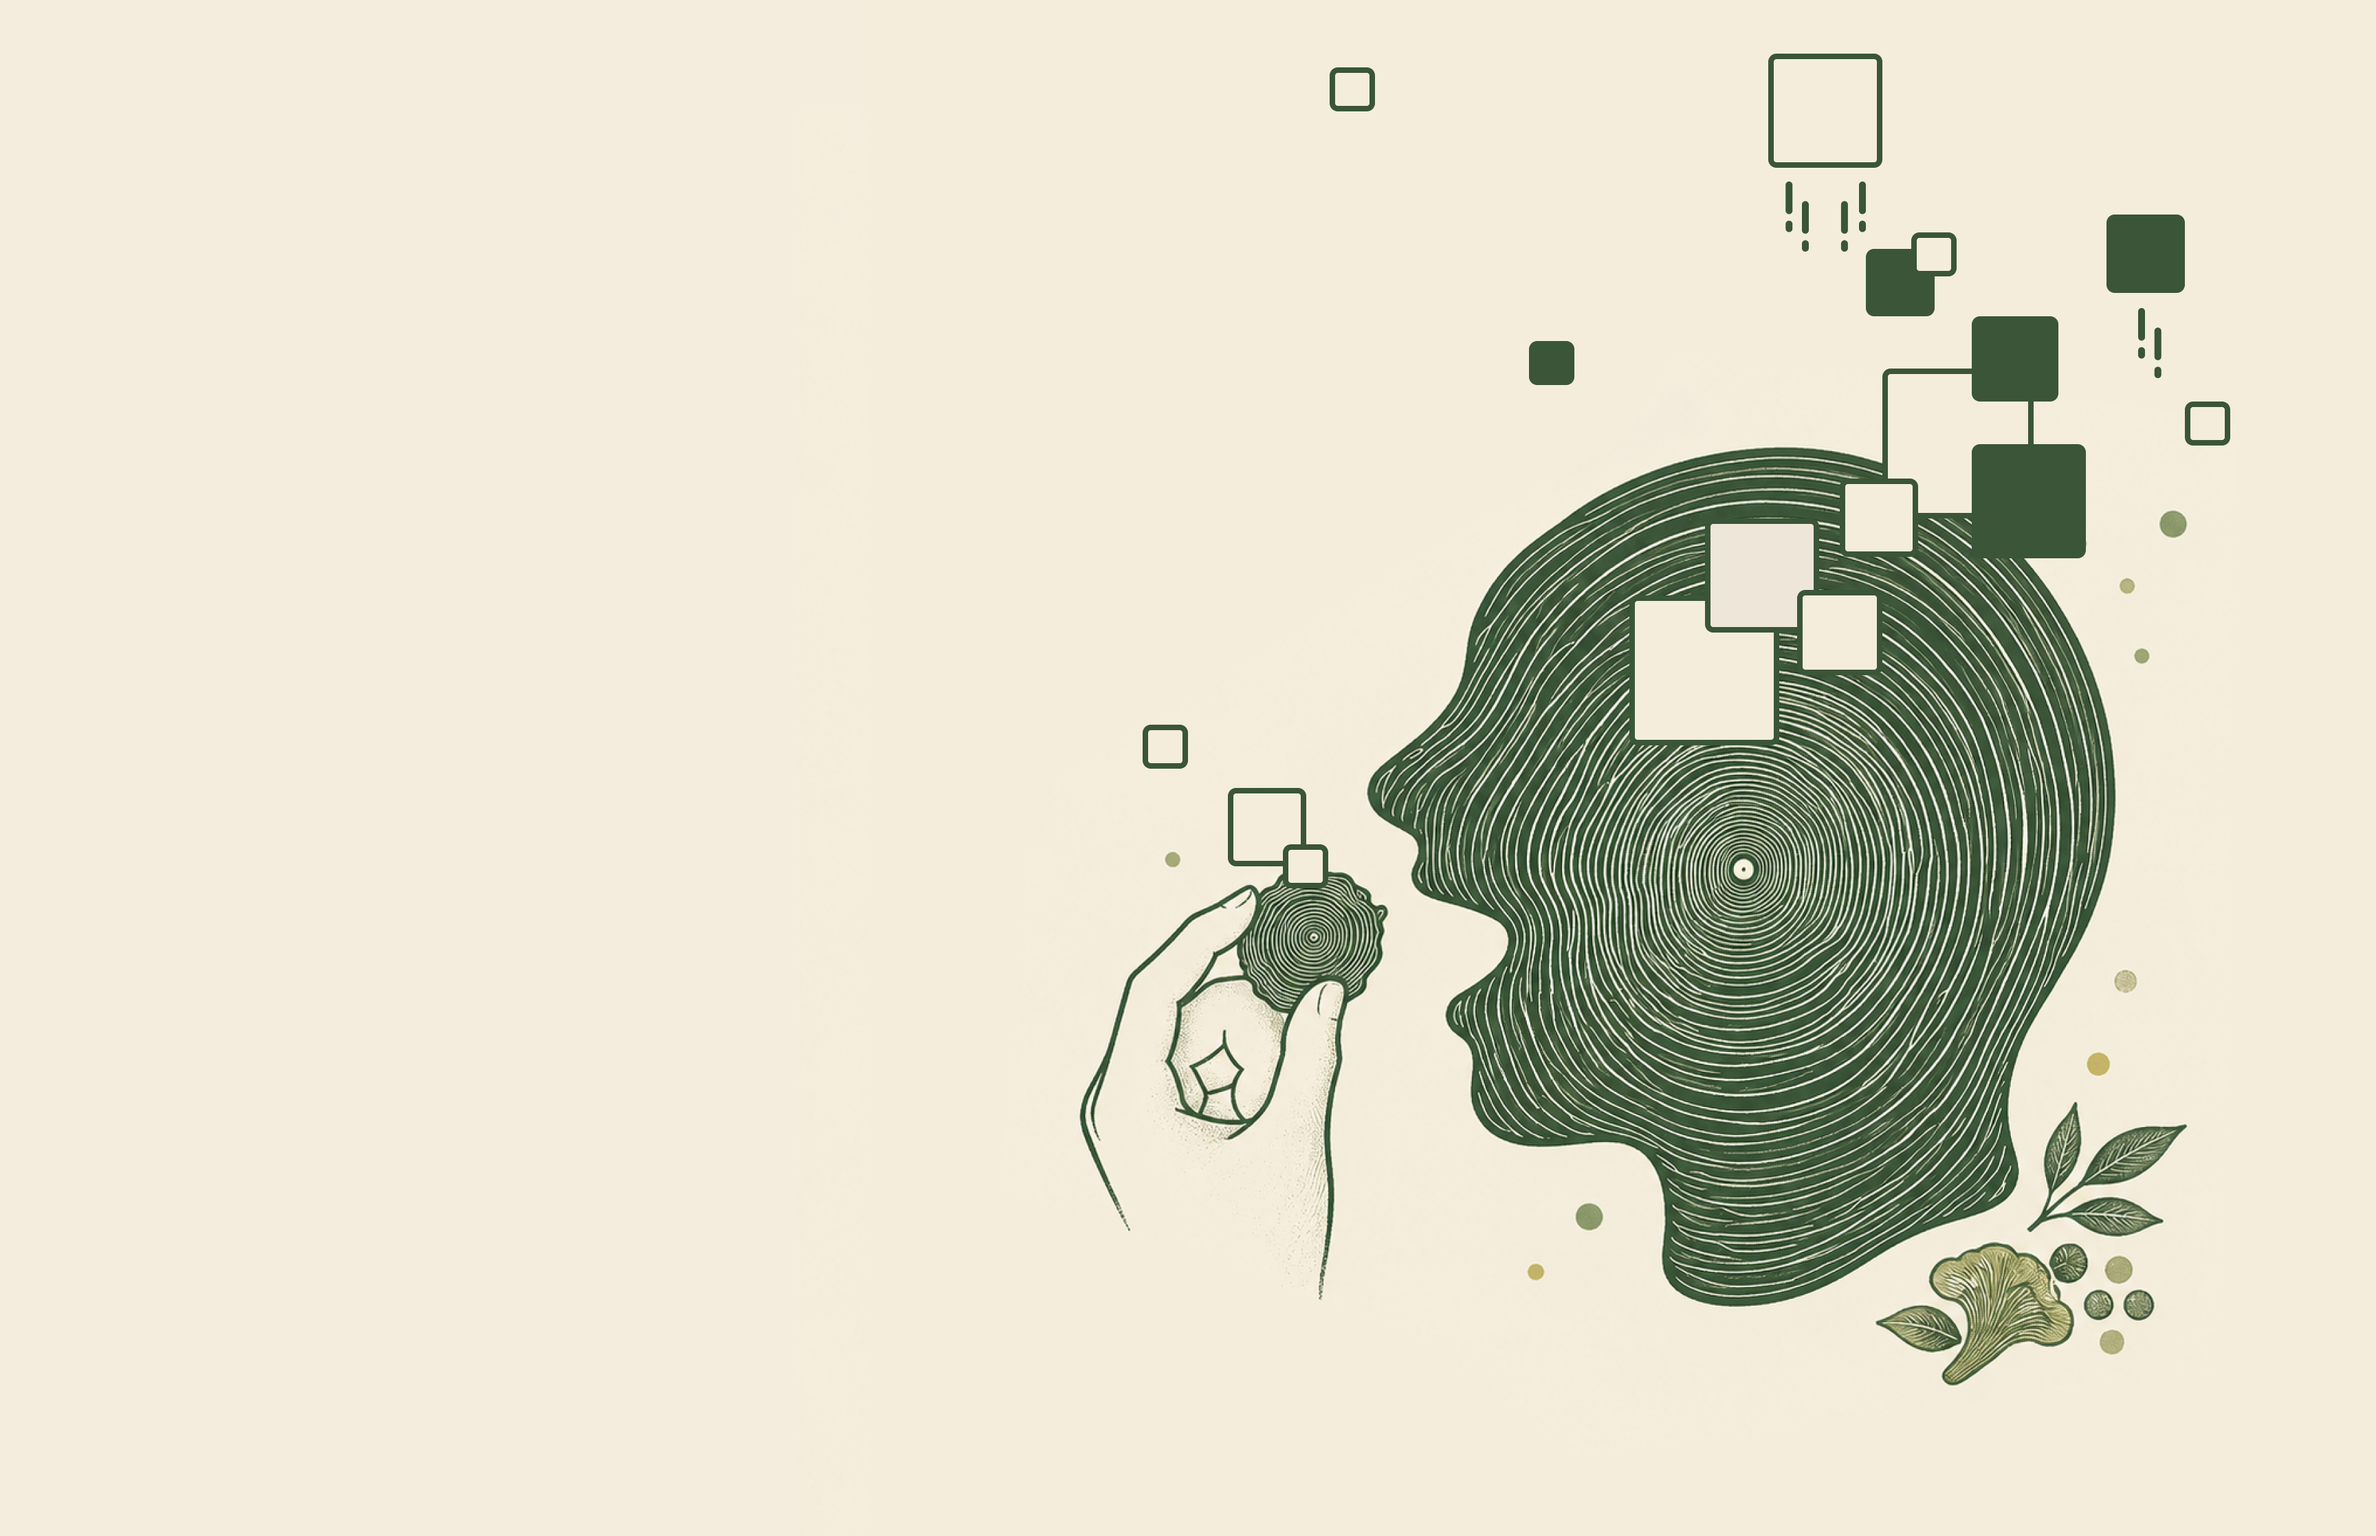
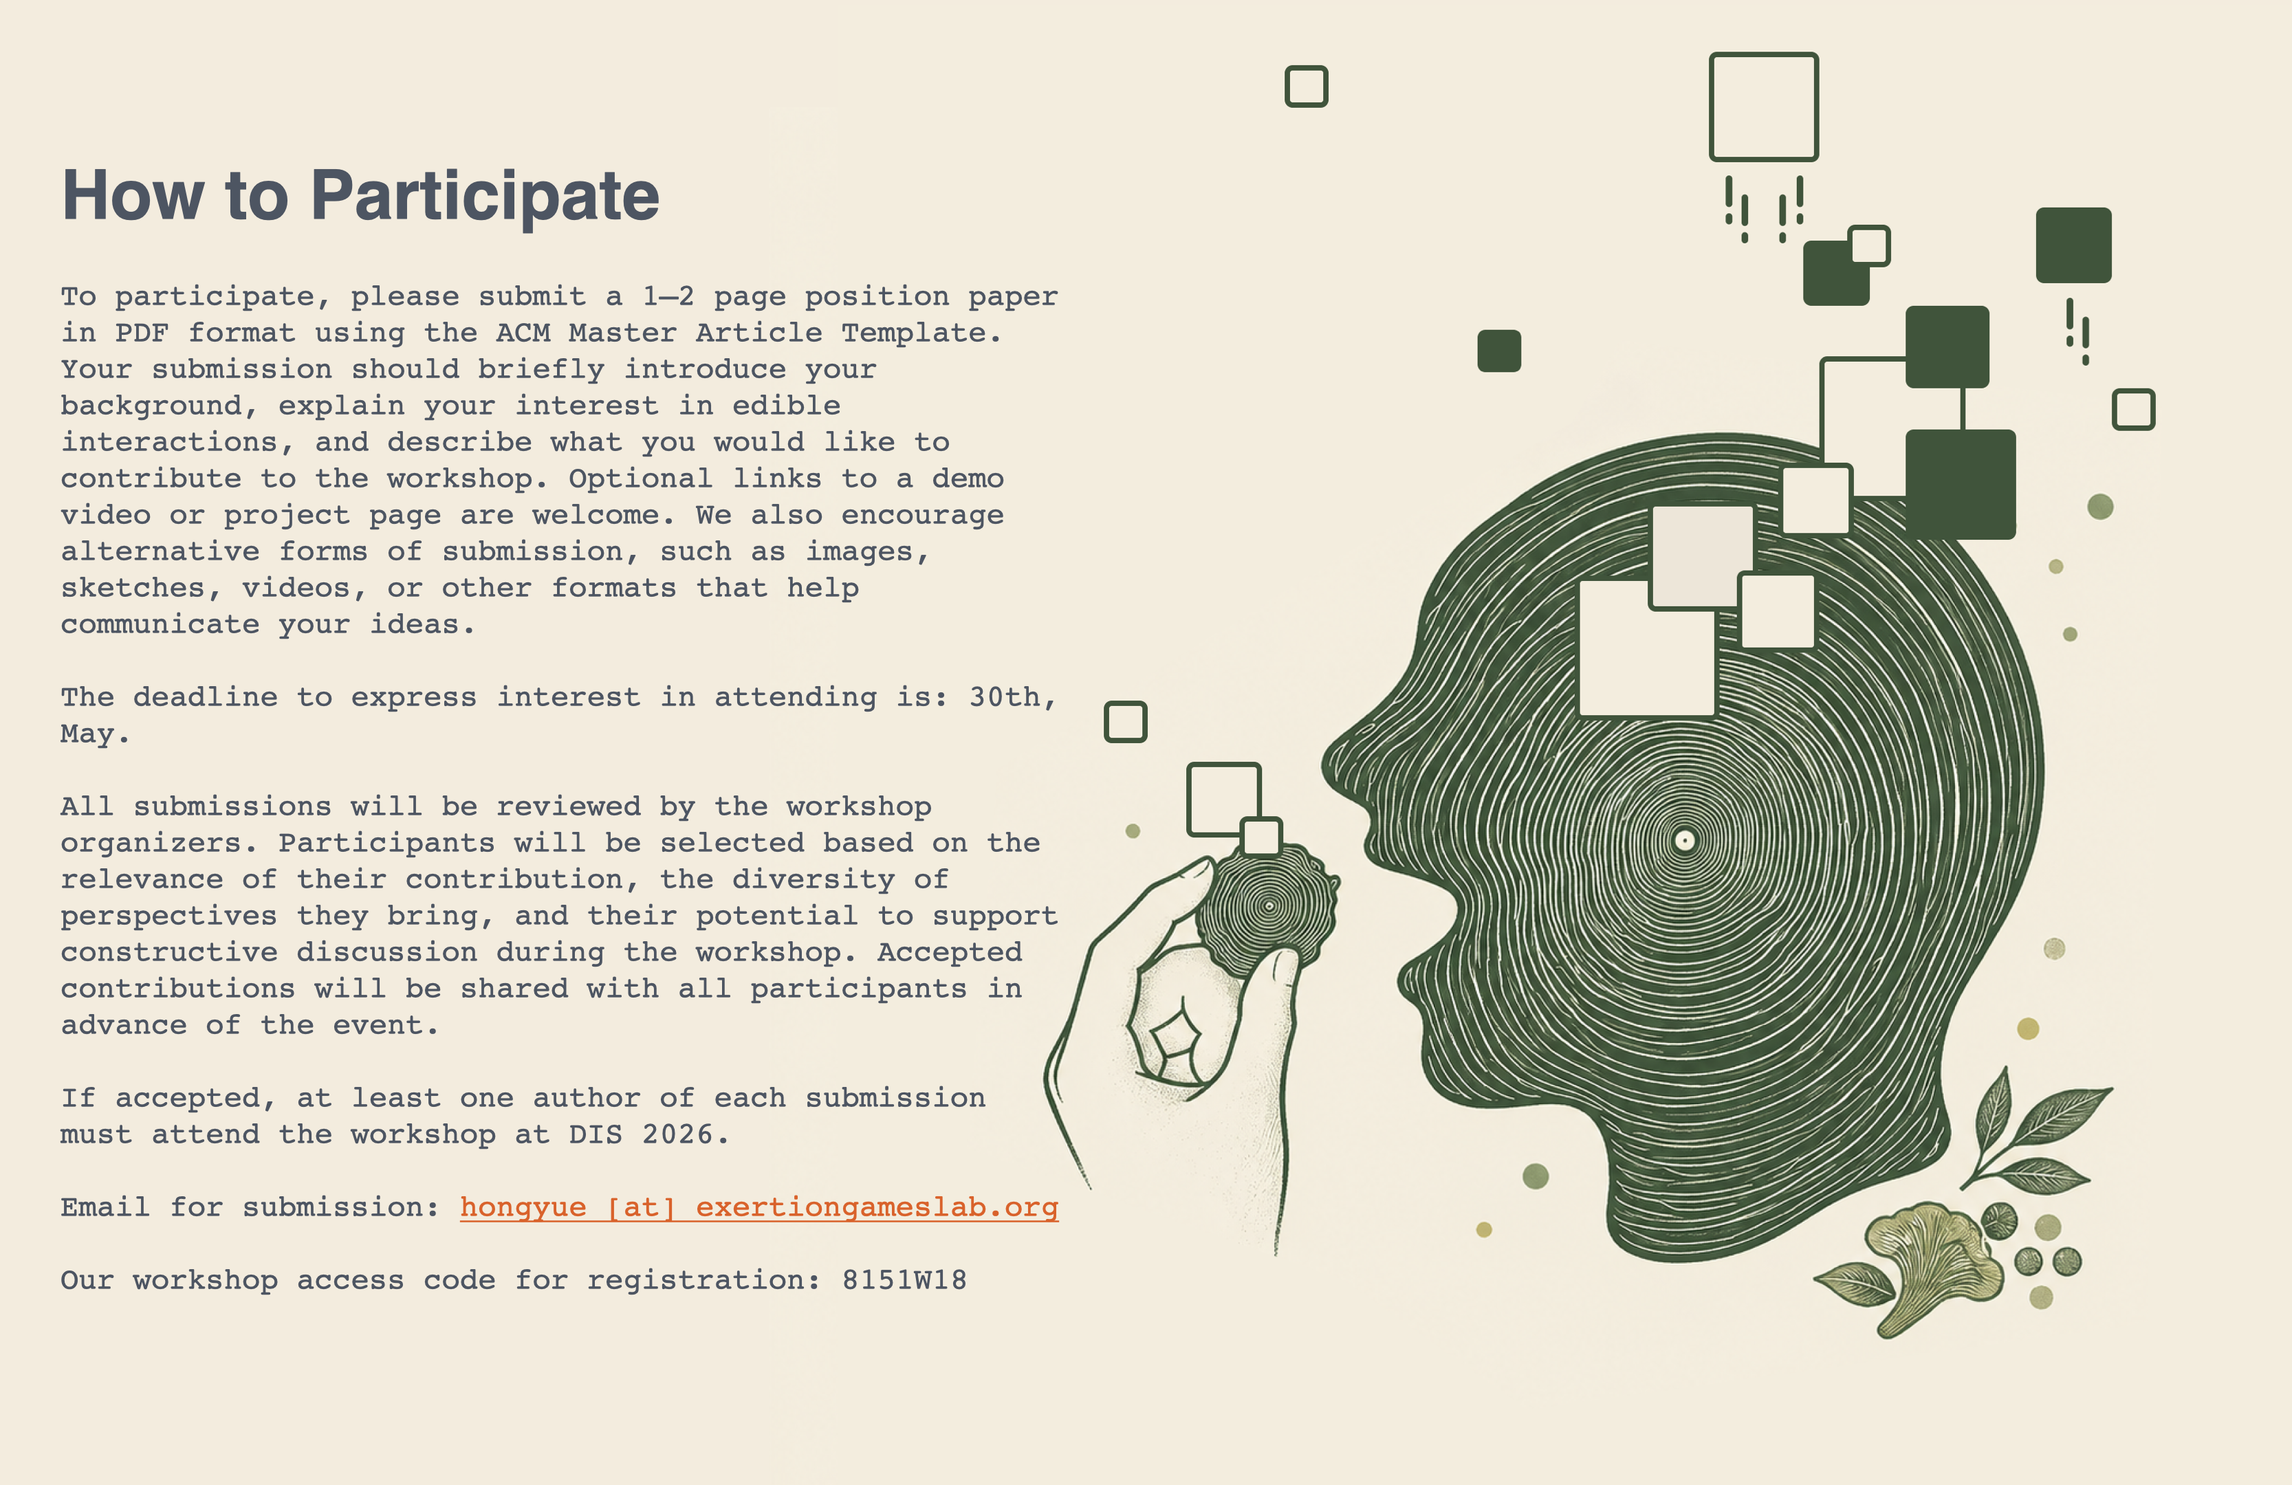
Update workshop website phott

diff --git a/index.html b/index.html
@@ -66,14 +66,14 @@
   <!-- About -->
   <section id="about" class="relative min-h-screen flex items-center justify-center">
     <img src="images/workshop2.png" alt="About Banner" class="w-full h-auto max-w-full object-contain">
-    <div class="absolute inset-0 flex items-center justify-end">
+    <!-- <div class="absolute inset-0 flex items-center justify-end">
       <div class="w-[30%] text-left text-gray-600 mr-[5%]">
         <h2 class="text-2xl md:text-3xl font-semibold font-mohave">About</h2>
         <p class="mt-4">
           This workshop convenes perspectives from HCI, fabrication, perceptual science, and materials science to build community, align knowledge, and articulate future directions for the field. Through multisensory demonstrations and hands-on activities, we aim to balance technological interventions with human factors to chart the future of edible interactions.
         </p>
       </div>
-    </div>
+    </div> -->
   </section>
 
   <!-- Schedule -->
@@ -431,14 +431,13 @@
         <li>Explore future applications and research directions</li>
         <li>Spark new collaborations and projects</li>
       </ul>
-      <p class="mt-4 text-gray-700">
     </div>
   </section>
   <!-- Footer -->
 <!-- New Section -->
   <section id="newsection" class="relative min-h-screen flex items-center justify-center">
   <img src="images/workshop3.png" alt="New Section Banner" class="w-full h-auto max-w-full object-contain">
-  <div class="absolute inset-0 flex items-center justify-start">
+  <!-- <div class="absolute inset-0 flex items-center justify-start">
     <div class="w-[40%] text-left text-gray-600 ml-[5%]">
       <h2 class="text-2xl md:text-3xl font-semibold font-mohave">How to Participate</h2>
       <p class="mt-4">
@@ -456,7 +455,7 @@
       <p class="mt-4">Email for submission: <a href="mailto:hongyue@exertiongameslab.org" class="text-orange-600 hover:text-orange-500">hongyue [at] exertiongameslab.org</a></p>
       <p class="mt-4">Our workshop access code for registration: 8151W18</p>
     </div>
-  </div>
+  </div> -->
 </section>
   <footer class="">
     <div class="mx-auto max-w-6xl px-4 py-8 text-sm text-gray-500 flex flex-wrap items-center justify-between gap-2">
